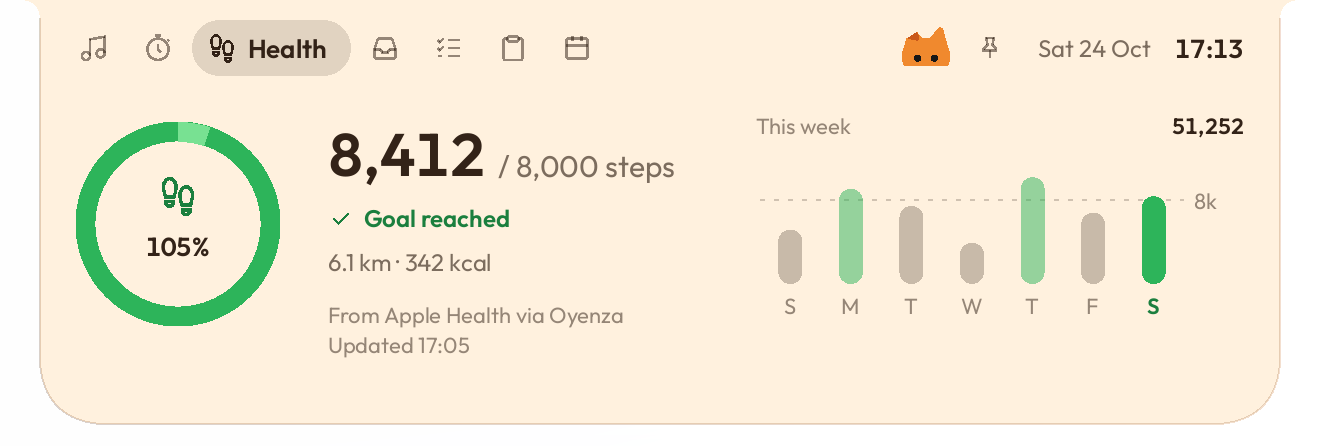
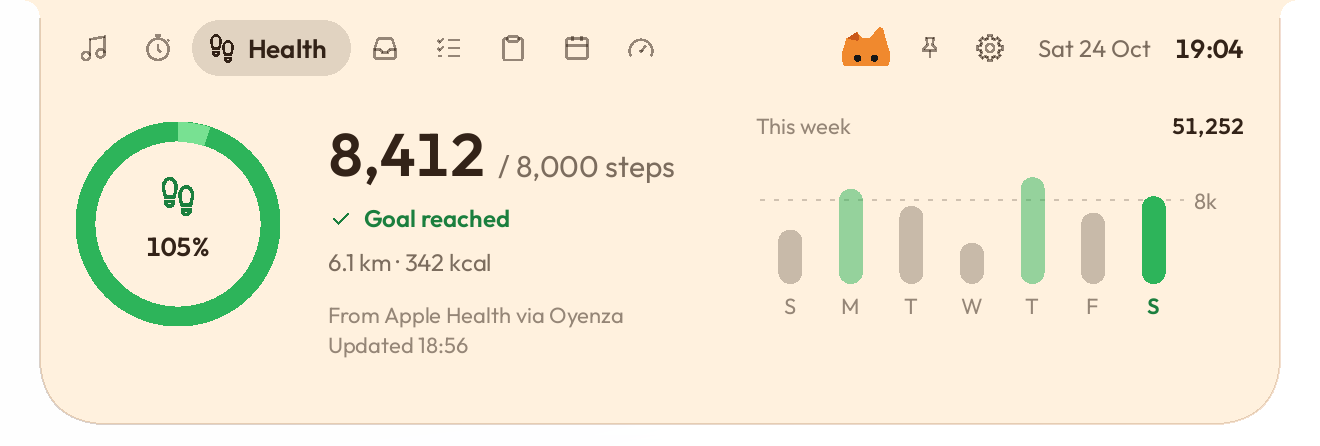
Website: Settings (0.1.10) and the System page (0.1.11)
The page now names 0.1.11 and shows what 0.1.10 and 0.1.11 added:

- New in 0.1.10, Settings right in the island: the gear beside the pin,
  the Oyenza account first, then theme, idle look and the switches.
- New in 0.1.11, System: CPU, memory, drives, network and battery with
  one-minute charts (copy from the System page session).
- Eight quick pages (System joined them); the island closes as soon as the
  pointer leaves; kanji lines get romaji since 0.1.10 (needs Windows'
  Japanese typing on Windows 11); YouTube titles with subtitle tags find
  lyrics; the Today rings open the System page.
- How-tos point at the gear: the Oyen theme, Oyenza sign-in, Disconnect,
  and turning pronunciation off ("in Settings or the tray menu").

Every island shot is re-cut with tools/site_shots.py from the published
0.1.11 poni.exe (portable zip): Classic, Oyen and the Korean pair, run in
the same minute so the clocks match. site_shots.py keeps page-settings and
page-system too.

diff --git a/site/index.html b/site/index.html
@@ -274,7 +274,7 @@ footer a { color: var(--muted); }
           </a>
           <a class="btn btn-line" href="https://github.com/lucacadalora/poni">Source on GitHub</a>
         </div>
-        <p class="small">Free and open source (MIT) · <span data-release="size">1.2 MB</span> download · No account needed · <a data-release="notes" href="https://github.com/lucacadalora/poni/releases/latest">What's new in <span data-release="version">0.1.9</span></a></p>
+        <p class="small">Free and open source (MIT) · <span data-release="size">1.2 MB</span> download · No account needed · <a data-release="notes" href="https://github.com/lucacadalora/poni/releases/latest">What's new in <span data-release="version">0.1.11</span></a></p>
         <div class="look-switch" role="group" aria-label="Island look">
           <button type="button" data-look="classic" aria-pressed="true"><span class="dot"></span>Classic</button>
           <button type="button" data-look="oyen" aria-pressed="false"><span class="dot dot-oyen"></span>Oyen theme</button>
@@ -342,8 +342,8 @@ footer a { color: var(--muted); }
     <div class="wrap">
       <div class="head">
         <p class="eyebrow">Point at it</p>
-        <h2>Seven quick pages, one hover away</h2>
-        <p>Point at the island or click it and it opens. Scroll over the header to switch pages. Sign in to Oyenza and an eighth page joins them.</p>
+        <h2>Eight quick pages, one hover away</h2>
+        <p>Point at the island or click it and it opens; move away and it closes at once. Scroll over the header to switch pages; the gear on the right opens Settings. Sign in to Oyenza and a ninth page joins them.</p>
       </div>
       <div class="music">
         <div class="sky"><div class="island">
@@ -352,7 +352,7 @@ footer a { color: var(--muted); }
         </div></div>
         <div>
           <h3>Music, with the words</h3>
-          <p>Controls for whatever is playing: Spotify, Apple Music, YouTube in your browser, or any app that shows up in Windows' media controls. Lyrics scroll in time with the song, from the free LRCLIB library, or Apple Music's own synced lyrics if you have a subscription.</p>
+          <p>Controls for whatever is playing: Spotify, Apple Music, YouTube in your browser, or any app that shows up in Windows' media controls. Lyrics scroll in time with the song, from the free LRCLIB library, or Apple Music's own synced lyrics if you have a subscription. YouTube videos find theirs too, even when the title carries subtitle tags or puts the song name first.</p>
           <img class="oyen-pose" src="brand/art/poses/oyen-music.webp" alt="Oyen in headphones" width="480" height="560" loading="lazy">
         </div>
       </div>
@@ -360,7 +360,7 @@ footer a { color: var(--muted); }
         <div>
           <p class="eyebrow">New in 0.1.7</p>
           <h3>Read along in Korean, Japanese and Chinese</h3>
-          <p>Like Apple Music's Show Pronunciation, each word of a lyric line gets its reading in Latin letters, set small underneath: the syllables for Korean, romaji for Japanese and pinyin with tone marks for Chinese. Turn it off in the tray menu.</p>
+          <p>Like Apple Music's Show Pronunciation, each word of a lyric line gets its reading in Latin letters, set small underneath: the syllables for Korean, romaji for Japanese and pinyin with tone marks for Chinese. Since 0.1.10, Japanese lines with kanji get romaji too. Those readings come from Windows' own Japanese reader, which on Windows 11 needs Japanese typing added. Turn it off in Settings or the tray menu.</p>
         </div>
         <div class="sky"><div class="island">
           <img class="look-classic" src="assets/shots/classic/page-media-ko.webp" alt="The Music page with Korean lyrics, each word's reading in Latin letters set small underneath" width="660" height="227" loading="lazy">
@@ -409,7 +409,7 @@ footer a { color: var(--muted); }
           </div></div></div>
         </article>
         <article class="card">
-          <div class="card-top"><img src="brand/art/poses/oyen-today.webp" alt="" width="480" height="499" loading="lazy"><div><h3>Today</h3><p>The date and calendar, plus CPU, memory, disk and battery at a glance.</p></div></div>
+          <div class="card-top"><img src="brand/art/poses/oyen-today.webp" alt="" width="480" height="499" loading="lazy"><div><h3>Today</h3><p>The date and calendar, plus CPU, memory, disk and battery at a glance. Click one to open it on the System page.</p></div></div>
           <div></div>
           <div class="shot"><div class="sky"><div class="island">
             <img class="look-classic" src="assets/shots/classic/page-today.webp" alt="The Today page" width="660" height="243" loading="lazy">
@@ -426,6 +426,28 @@ footer a { color: var(--muted); }
         <div class="sky"><div class="island">
           <img class="look-classic" src="assets/shots/classic/page-shelf-phone-ask.webp" alt="The Shelf with Phone drop open: iPhone wants to send 3 files, with Decline and Accept" width="660" height="393" loading="lazy">
           <img class="look-oyen" src="assets/shots/oyen/page-shelf-phone-ask.webp" alt="Phone drop asking to accept 3 files from an iPhone, in the Oyen theme" width="660" height="393" loading="lazy">
+        </div></div>
+      </div>
+      <div class="music" id="settings">
+        <div class="sky"><div class="island">
+          <img class="look-classic" src="assets/shots/classic/page-settings.webp" alt="The Settings page: Sign in with Oyenza at the top, then the theme, the idle look and six switches" width="660" height="277" loading="lazy">
+          <img class="look-oyen" src="assets/shots/oyen/page-settings.webp" alt="The Settings page in the Oyen theme" width="660" height="277" loading="lazy">
+        </div></div>
+        <div>
+          <p class="eyebrow">New in 0.1.10</p>
+          <h3>Settings, right in the island</h3>
+          <p>Press the gear beside the pin. Your Oyenza account comes first: sign in, see who is signed in, or disconnect. Below it are the theme, the idle look, and switches for lyrics, pronunciation, sounds, clipboard history, full-screen apps and starting with Windows. Changes apply at once.</p>
+        </div>
+      </div>
+      <div class="music flip" id="system">
+        <div>
+          <p class="eyebrow">New in 0.1.11</p>
+          <h3>System: your PC at a glance</h3>
+          <p>CPU, memory, drives, network and battery, each with the last minute as a chart, the apps using the most, and Task Manager one click away. It reads only while the page is open, from the same counters Task Manager uses: no driver, no admin rights, and nothing leaves your PC.</p>
+        </div>
+        <div class="sky"><div class="island">
+          <img class="look-classic" src="assets/shots/classic/page-system.webp" alt="The System page: CPU, memory, drives, network and battery, each with a one-minute chart" width="660" height="251" loading="lazy">
+          <img class="look-oyen" src="assets/shots/oyen/page-system.webp" alt="The System page in the Oyen theme" width="660" height="251" loading="lazy">
         </div></div>
       </div>
     </div>
@@ -467,7 +489,7 @@ footer a { color: var(--muted); }
         </ul>
         <div>
           <img src="brand/art/oyen-poni-asleep.webp" alt="Oyen asleep on the island while a song plays" width="900" height="654" loading="lazy" style="width:min(340px,100%)">
-          <p class="how">Right-click the island, then <kbd>Theme</kbd> › <kbd>Oyen</kbd>. Switch back to <kbd>Classic</kbd> any time.</p>
+          <p class="how">Open the island and press the gear, then <kbd>Theme</kbd> › <kbd>Oyen</kbd>. Switch back to <kbd>Classic</kbd> any time.</p>
         </div>
       </div>
     </div>
@@ -479,14 +501,14 @@ footer a { color: var(--muted); }
         <div>
           <p class="eyebrow">Oyenza account · New in 0.1.9</p>
           <h2>Your Oyenza, at the top of your screen</h2>
-          <p>Sign in with your <a href="https://oyenza.app" style="color:#fff">oyenza.app</a> account the way you sign in on a TV: the island shows a code and you approve this PC at oyenza.app/connect. No password is ever typed into Oyen Poni. An Oyenza page then joins the island.</p>
+          <p>Sign in with your <a href="https://oyenza.app" style="color:#fff">oyenza.app</a> account the way you sign in on a TV: press the gear, choose Sign in with Oyenza, and approve the code the island shows at oyenza.app/connect. No password is ever typed into Oyen Poni. An Oyenza page then joins the island.</p>
           <ul>
             <li><span><b>Money as it arrives.</b> When Oyenza logs money coming in, the island tells you, with the amount and sender hidden until you click Show.</span></li>
             <li><span><b>Bills before they're due.</b> Subscriptions and card due dates for the next 7 days, and a reminder the day before each one.</span></li>
             <li><span><b>Note a spend in a second.</b> Type "kopi 25rb" on the Oyenza page and press Enter: it goes straight to Oyenza, with 10 seconds to undo.</span></li>
             <li><span><b>Your steps, next.</b> Steps from Apple Health or Health Connect will come through Oyenza in a later version.</span></li>
           </ul>
-          <p class="fine">Signing in is optional. This PC gets a key of its own, never your password: it sees money coming in and bills due, and saves the spends you type, nothing else. Disconnect it from the island's Oyenza menu, or in oyenza.app under Connected apps.</p>
+          <p class="fine">Signing in is optional. This PC gets a key of its own, never your password: it sees money coming in and bills due, and saves the spends you type, nothing else. Disconnect it in the island's Settings, or in oyenza.app under Connected apps.</p>
         </div>
         <img src="brand/art/oyen-poni-sit.webp" alt="Oyen sitting on the island while a song plays" width="893" height="1200" loading="lazy">
       </div>

diff --git a/tools/site_shots.py b/tools/site_shots.py
@@ -35,7 +35,7 @@ ROOT = Path(__file__).resolve().parent.parent
 KEEP = {
     "idle-clock", "idle-eyes", "media-activity", "timer-activity", "volume-hud", "bluetooth-hud",
     "page-media", "page-focus", "page-health", "page-shelf", "page-tasks", "page-clipboard", "page-today",
-    "page-shelf-phone-ask", "oyenza-money", "page-oyenza", "page-oyenza-signin",
+    "page-shelf-phone-ask", "oyenza-money", "page-oyenza", "page-oyenza-signin", "page-settings", "page-system",
 }
 
 
